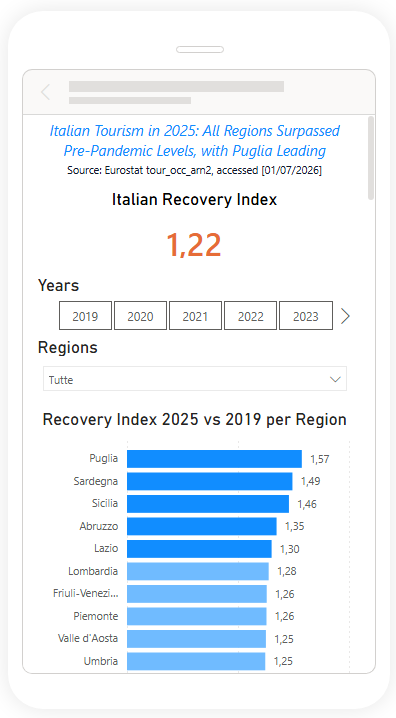
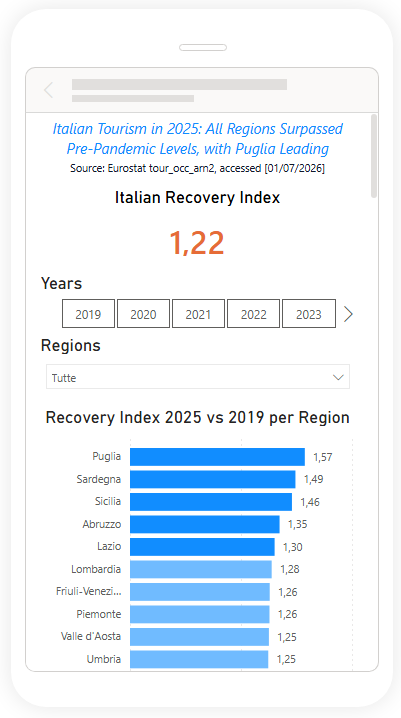
Fix Arrivals vs Nights and Minors

diff --git a/README.md b/README.md
@@ -1,14 +1,14 @@
 # Tourism Recovery Dashboard
 
-A simple data analytics project analyzing tourism recovery trends across Italian regions after COVID-19.
+A simple data analytics project focused on tourism recovery trends across Italian regions after COVID-19.
 
 This project builds on:  
 [DataSkew.io Tourism Recovery Dashboard](https://dataskew.io/projects/data-analyst-tourism-dashboard/)
 
 The main indicators used in this project are:
 
-- Tourist nights
-- Recovery Index, defined as the ratio between current tourist nights and 2019 levels
+- Tourist arrivals
+- Recovery Index, defined as the ratio between current tourist arrivals and 2019 levels
 
 ## Headline Findings
 
@@ -33,7 +33,7 @@ Italian tourism recovery has been uneven since the 2020 collapse. By 2025, all 2
 
 Traditionally leading regions such as Toscana, Veneto, and Lombardia fall in the middle of the distribution, suggesting a relatively smaller decline during the COVID years.
 
-Excluding the 2020 downturn, annual tourist nights show a relatively linear trend. Current projections estimate 180M, 200M, and 220M tourist nights for 2026–2028.
+Excluding the 2020 downturn, annual tourist arrivals show a relatively linear trend. Current projections estimate 180M, 200M, and 220M tourist nights for 2026–2028.
 
 ## Project Structure
 
@@ -49,4 +49,4 @@ Excluding the 2020 downturn, annual tourist nights show a relatively linear tren
 
 - [Preliminary Data Check](docs/preliminary_data_check.md)
 - [Implementation Notes](docs/implementation_notes.md)
-- [Lessons Learned](docs/lessons-learned.md)
+- [Lessons Learned](docs/lesson_learned.md)

diff --git a/docs/implementation_notes.md b/docs/implementation_notes.md
@@ -17,7 +17,7 @@ This ensures the national Recovery Index remains constant regardless of regional
 
 ## Region Bar Chart
 
-In the original dataset, all regional Recovery Index values were above 1. As a result, a uniform conditional coloring would not provide meaningful differentiation.
+In the dataset, all regional Recovery Index values were above 1. As a result, a uniform conditional coloring would not provide meaningful differentiation.
 
 To improve interpretability, a custom color scale was applied:
 
@@ -28,7 +28,7 @@ To improve interpretability, a custom color scale was applied:
 
 ## Line Chart
 
-Since monthly granularity was not available in the dataset, the original requirement (“Monthly nights, 2019 vs 2022 vs 2025”) was replaced with a simplified yearly line chart using Year as the x-axis and Recovery Index as the measure.
+Since monthly granularity was not available in the dataset, a simplified yearly line chart was selected, using Year as the x-axis and Recovery Index as the measure.
 
 Additionally, forecasting was added to extend the trend beyond 2025.
 